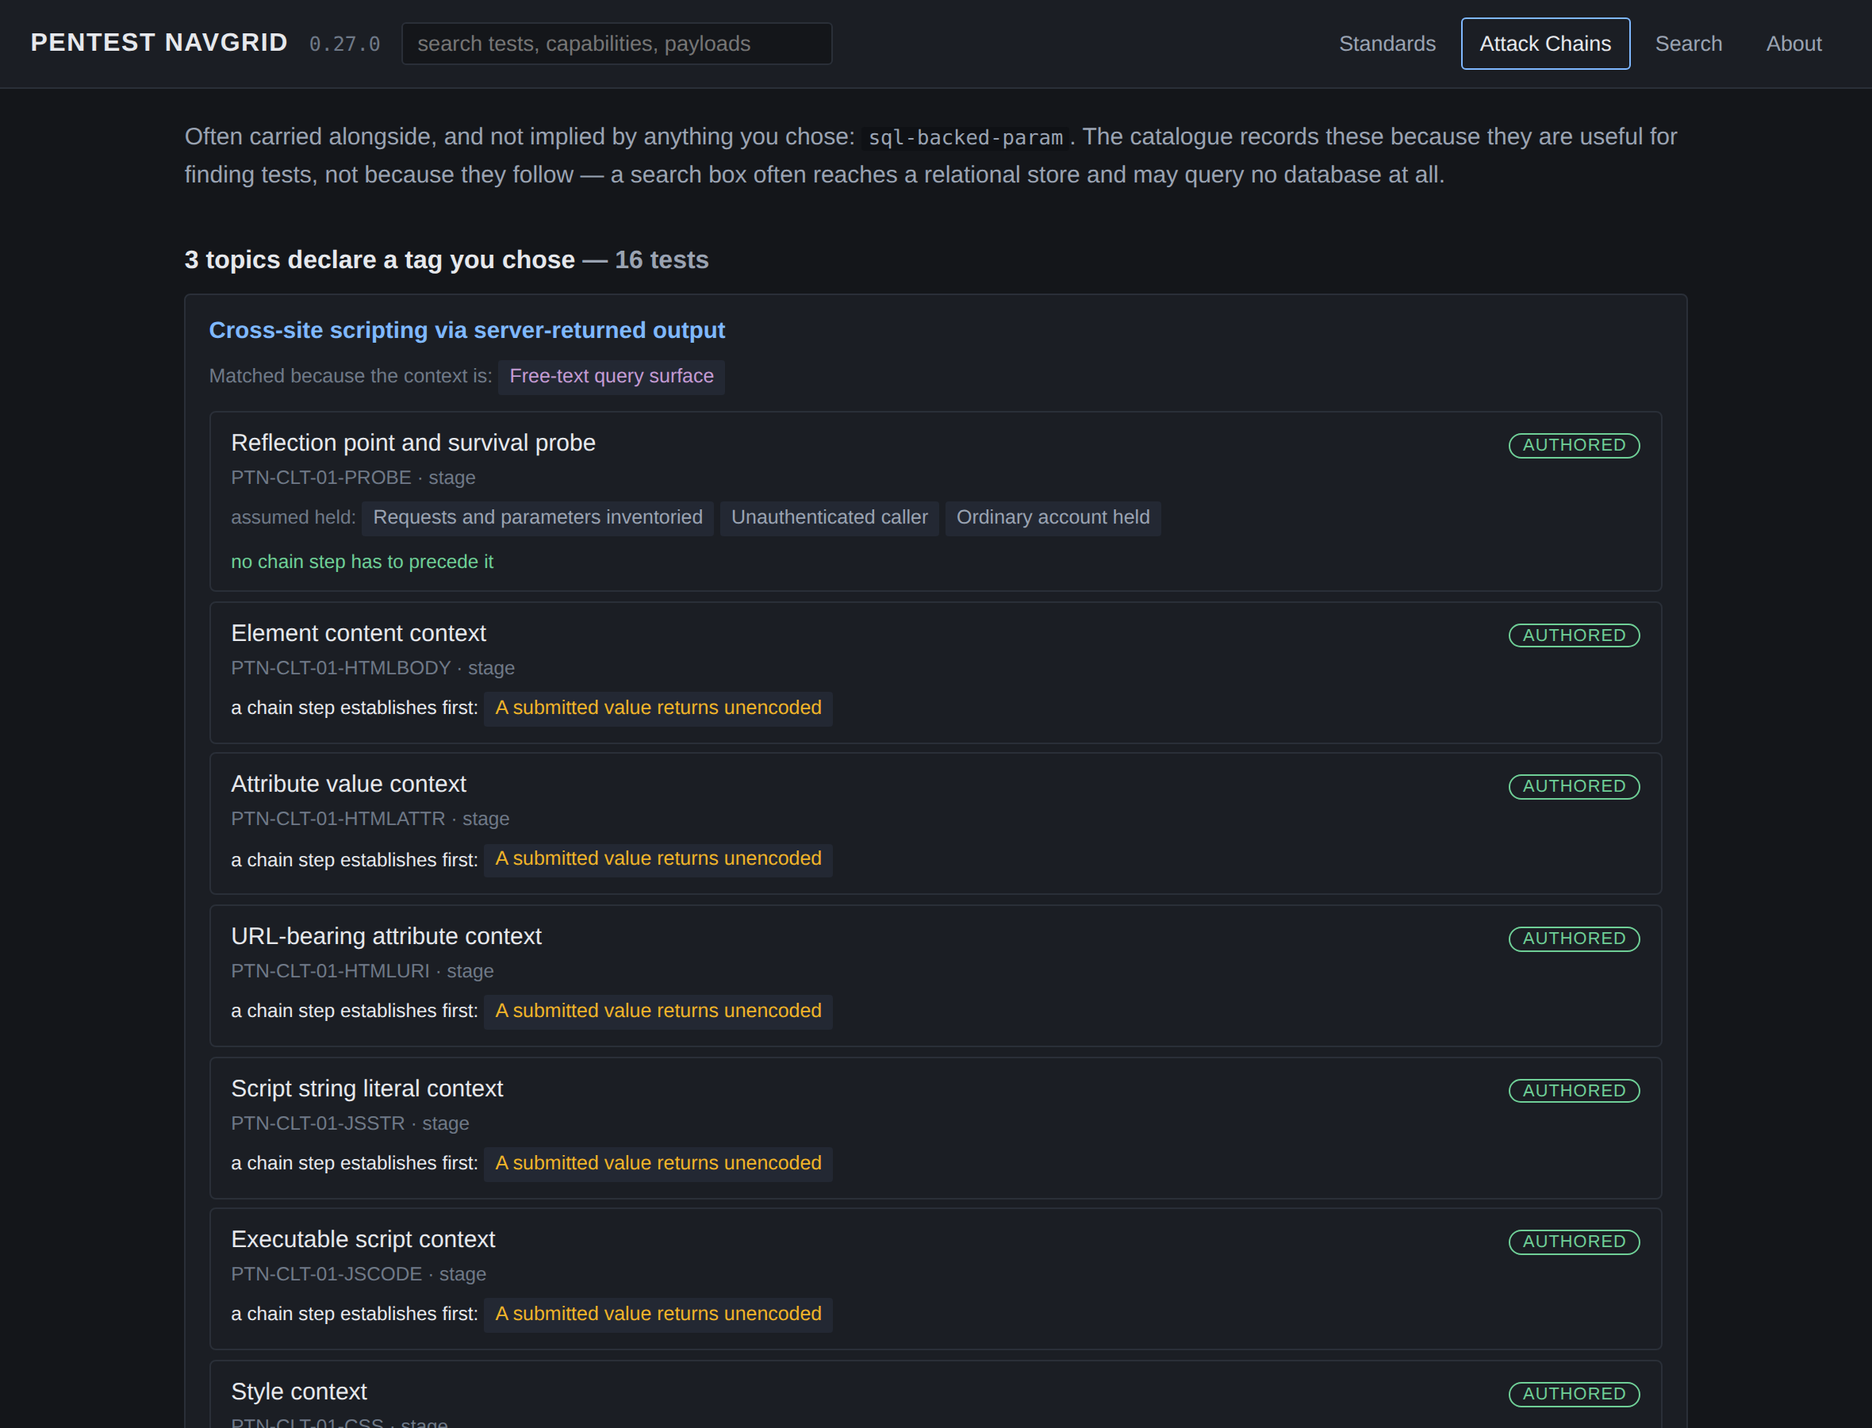
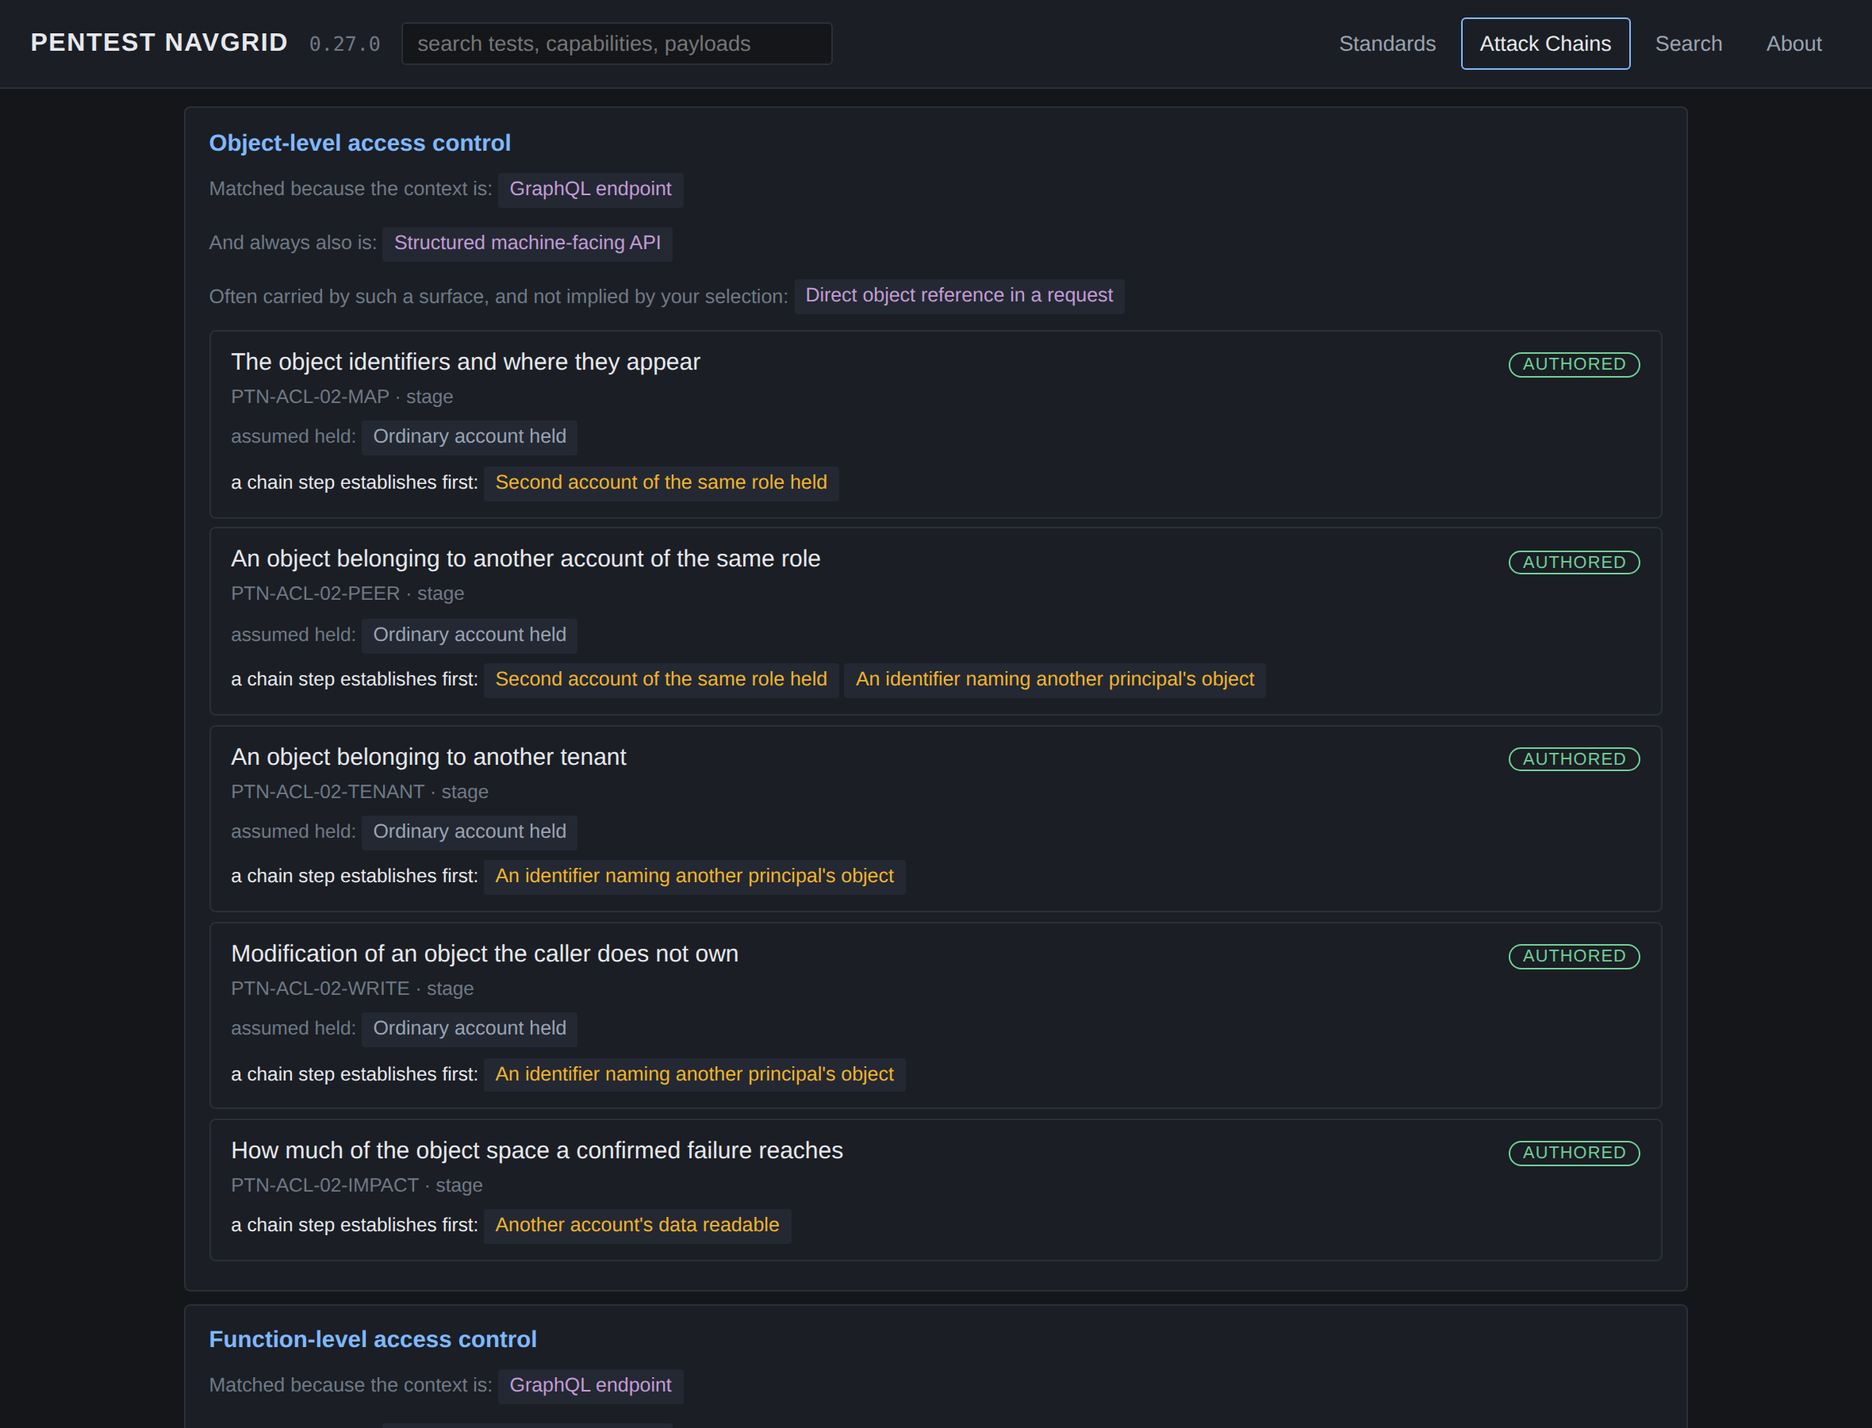
fix(surfaces): say on each card which relation put the topic there
The paragraph above the results was corrected and the reason line on each
card was not, so the page went on saying "Matched because the context is:
Parameter reaching a SQL data store" over a topic a search box had only
been associated with -- two inches under a paragraph saying the opposite.
A row in the stronger tier could carry an association too, and printed it
identically: `graphql` reaches object-level access control by the tag
chosen, by one it always also is, and by one it is merely often found
with, and all three read as the first.

Every tag that reaches a topic now carries which of the three relations
did it, and the card writes a sentence per relation, because one sentence
cannot be true of all three.

The second fix is the same mistake in the validator. An association was
compared against the directly declared parents rather than against the
whole ancestor closure, so with `a` parents `b` and `b` parents `c`, an
authored `a often c` passed validation and was then dropped by the build,
which subtracts the full closure. Accepted in the file and discarded in
the artefact is the worse of the two failures: the vocabulary would state
a relation the page does not carry.

The README figure is retaken on the page that shows all three reasons at
once rather than the one where every row happens to be a direct match --
a picture of the corrected behaviour rather than of the half of it that
never changed.

diff --git a/pentest_navgrid/artefact/app.js b/pentest_navgrid/artefact/app.js
@@ -1052,12 +1052,31 @@
     // A topic reached both ways is reported the stronger way only, with every
     // tag that reached it, so the reason line is complete and the topic appears
     // once.
-    var order = function (a, b) { return a < b ? -1 : a > b ? 1 : 0; };
-    var rows = Object.keys(certain).sort(order).map(function (tid) {
-      return { topic: tid, via: certain[tid].concat(weak[tid] || []).sort(), often: false };
+    /* Every tag that reached a topic, carrying which of the three relations
+       did it. The tier a row lands in is not enough on its own: a row in the
+       stronger tier can still be reached by an association as well as by the
+       tag the reader chose, and a card that printed both the same way would go
+       on saying "the context is" over a tag the selection never established --
+       which is the whole thing this split exists to stop, one level further
+       down the page than the paragraph that says it. */
+    var order = function (a, b) { return a.tag < b.tag ? -1 : a.tag > b.tag ? 1 : 0; };
+    var byName = function (a, b) { return a < b ? -1 : a > b ? 1 : 0; };
+    var how = function (tag) {
+      if (closure.selected.indexOf(tag) >= 0) return "chosen";
+      return closure.parents.indexOf(tag) >= 0 ? "always" : "often";
+    };
+    var tagged = function (tags) {
+      return tags.map(function (tag) { return { tag: tag, how: how(tag) }; }).sort(order);
+    };
+    var rows = Object.keys(certain).sort(byName).map(function (tid) {
+      return {
+        topic: tid,
+        via: tagged(certain[tid].concat(weak[tid] || [])),
+        often: false
+      };
     });
-    Object.keys(weak).sort(order).forEach(function (tid) {
-      if (!own(certain, tid)) rows.push({ topic: tid, via: weak[tid].sort(), often: true });
+    Object.keys(weak).sort(byName).forEach(function (tid) {
+      if (!own(certain, tid)) rows.push({ topic: tid, via: tagged(weak[tid]), often: true });
     });
     return {
       selected: closure.selected,
@@ -2134,11 +2153,26 @@
     if (!topic) return "";
     var byTag = {};
     (D.surfaces || []).forEach(function (s) { byTag[s.tag] = s; });
-    var why = row.via.map(function (tag) {
-      var s = byTag[tag];
-      return '<span class="tag ctx" title="' + esc((s && s.hint) || tag) + '">' +
-        esc((s && s.label) || tag) + "</span>";
-    }).join("");
+    /* Three sentences rather than one, because the three relations are three
+       different claims and the shortest true sentence differs for each. A
+       chosen tag and a tag the selection always also is are both true of the
+       surface the reader described; an association is true of surfaces like it
+       in general and says nothing about theirs. */
+    var chips = function (kind) {
+      return row.via.filter(function (v) { return v.how === kind; })
+        .map(function (v) {
+          var s = byTag[v.tag];
+          return '<span class="tag ctx" title="' + esc((s && s.hint) || v.tag) + '">' +
+            esc((s && s.label) || v.tag) + "</span>";
+        }).join("");
+    };
+    var line = function (kind, lead) {
+      var found = chips(kind);
+      return found ? '<div class="why">' + lead + " " + found + "</div>" : "";
+    };
+    var why = line("chosen", "Matched because the context is:") +
+      line("always", "And always also is:") +
+      line("often", "Often carried by such a surface, and not implied by your selection:");
 
     var units = (topic.units || []).map(function (uid) {
       var unit = get(D.units, uid);
@@ -2176,7 +2210,7 @@
 
     return '<div class="card"><h4><a href="' + href("topic", row.topic) + '">' +
       esc(topic.title) + "</a></h4>" +
-      '<div class="why">Matched because the context is: ' + why + "</div>" +
+      why +
       '<div class="rows">' + units + "</div></div>";
   };
 

diff --git a/tests/test_artefact_ui.py b/tests/test_artefact_ui.py
@@ -1516,7 +1516,10 @@ class ChoosingAContextSelectsTestsAndNothingElse(unittest.TestCase):
             const hit = r.topics.filter(function (t) { return t.topic === "PTN-ACL-02"; })[0];
             return hit || null;
         """)
-        self.assertEqual(out["via"], ["object-id-param", "rest-api"])
+        self.assertEqual(
+            [[v["tag"], v["how"]] for v in out["via"]],
+            [["object-id-param", "chosen"], ["rest-api", "chosen"]],
+        )
         self.assertFalse(out["often"])
 
     def test_a_topic_reached_only_through_an_association_is_marked_as_weaker(self):
@@ -1540,7 +1543,9 @@ class ChoosingAContextSelectsTestsAndNothingElse(unittest.TestCase):
         out = self.run_js("""
             const r = H.contextTopics(D, ["graphql"]);
             const rows = {};
-            r.topics.forEach(function (t) { rows[t.topic] = { often: t.often, via: t.via }; });
+            r.topics.forEach(function (t) {
+              rows[t.topic] = { often: t.often, via: t.via.map(function (v) { return v.tag; }) };
+            });
             return rows;
         """)
         reached = [t for t, row in out.items() if "rest-api" in row["via"]]
@@ -1548,6 +1553,39 @@ class ChoosingAContextSelectsTestsAndNothingElse(unittest.TestCase):
         for topic in reached:
             with self.subTest(topic=topic):
                 self.assertFalse(out[topic]["often"])
+
+    def test_every_tag_that_reached_a_topic_carries_which_relation_did_it(self):
+        """The tier a row lands in is not enough. A row in the stronger tier can
+        still be reached by an association as well as by the tag the reader
+        chose -- `graphql` reaches object-level access control through both --
+        and a card printing the two the same way would go on saying "the context
+        is" over a tag the selection never established."""
+        out = self.run_js("""
+            const r = H.contextTopics(D, ["graphql"]);
+            const hit = r.topics.filter(function (t) { return t.topic === "PTN-ACL-02"; })[0];
+            return hit.via;
+        """)
+        self.assertEqual(
+            [[v["tag"], v["how"]] for v in out],
+            [["graphql", "chosen"], ["object-id-param", "often"], ["rest-api", "always"]],
+        )
+
+    def test_no_tag_is_reported_under_a_relation_the_closure_does_not_give_it(self):
+        out = self.run_js("""
+            const bad = [];
+            D.surfaces.forEach(function (s) {
+              const closure = H.contextClosure(D, [s.tag]);
+              H.contextTopics(D, [s.tag]).topics.forEach(function (row) {
+                row.via.forEach(function (v) {
+                  const list = closure[v.how === "chosen" ? "selected"
+                    : v.how === "always" ? "parents" : "often"];
+                  if (list.indexOf(v.tag) < 0) bad.push([s.tag, v.tag, v.how]);
+                });
+              });
+            });
+            return bad;
+        """)
+        self.assertEqual(out, [])
 
     def test_the_deleted_edges_reach_nothing(self):
         """Three relations were removed rather than relabelled. A selection that
@@ -2438,6 +2476,58 @@ class TheBuiltFileWorksInABrowser(unittest.TestCase):
         self.assertShows(text, "Often carried alongside")
         self.assertShows(text, "sql-backed-param")
         self.assertShows(text, "SQL injection")
+
+    def test_a_card_never_says_the_context_is_a_tag_only_associated_with_it(self):
+        """The sentence a reader actually reads, next to each topic.
+
+        Correcting the paragraph above the results and leaving this one alone
+        left the page still asserting, one line lower, that a search box *is* a
+        parameter reaching a SQL data store. The disclaimer was two inches away
+        and said the opposite.
+        """
+        page = self.open("#/chains/context/search")
+        card = page.locator('.card:has-text("SQL injection")').first
+        text = " ".join(card.inner_text().split())
+        self.assertIn("Often carried by such a surface", text)
+        self.assertNotIn("Matched because the context is: Parameter reaching a SQL", text)
+
+    def test_a_card_separates_the_three_reasons_a_topic_can_be_here(self):
+        """`graphql` reaches object-level access control by all three at once:
+        the tag chosen, the tag it always also is, and one it is merely often
+        found with. One line for all three cannot be true of all three."""
+        page = self.open("#/chains/context/graphql")
+        card = page.locator('.card:has-text("Object-level access control")').first
+        text = " ".join(card.inner_text().split())
+        self.assertIn("Matched because the context is: GraphQL endpoint", text)
+        self.assertIn("And always also is: Structured machine-facing API", text)
+        self.assertIn(
+            "Often carried by such a surface, and not implied by your selection: "
+            "Direct object reference in a request",
+            text,
+        )
+
+    def test_no_card_anywhere_presents_an_association_as_the_context(self):
+        """Swept over every tag rather than the two that happen to show it, so a
+        relation added later cannot reintroduce the wording."""
+        bad, read = [], 0
+        for surface in self.data["surfaces"]:
+            if not surface["often"]:
+                continue
+            page = self.open("#/chains/context/" + surface["tag"])
+            labels = {
+                s["label"] for s in self.data["surfaces"] if s["tag"] in surface["often"]
+            }
+            for block in page.locator(".why").all_inner_texts():
+                line = " ".join(block.split())
+                if not line.startswith("Matched because the context is:"):
+                    continue
+                read += 1
+                for label in labels:
+                    if label in line:
+                        bad.append((surface["tag"], label))
+        self.assertEqual(bad, [])
+        # A selector that stopped matching would make this pass by reading none.
+        self.assertGreater(read, 20, "no reason lines were examined at all")
 
     def test_an_association_is_never_printed_as_something_that_follows(self):
         """The sentence this change exists to remove. It said an edge was "true

diff --git a/pentest_navgrid/validate.py b/pentest_navgrid/validate.py
@@ -184,6 +184,28 @@ def check_vocabularies(repo: Repository, problems: Problems) -> None:
     # every pass after it must still run. A validator that raises on the first
     # malformed document reports one problem out of a file that may hold six.
     dimension_of = {s["tag"]: s.get("dimension") for s in surfaces}
+    declared_parents = {s["tag"]: list(s.get("parents") or ()) for s in surfaces}
+
+    def ancestors(tag: str) -> Set[str]:
+        """Every tag the parent relation makes true of one carrying `tag`.
+
+        Walked rather than read directly, because the relation is closed
+        transitively at build time and the closure is what the page sees. A
+        check against the directly declared parents only would accept `a`
+        associating with `c` where `a` parents `b` and `b` parents `c` -- and
+        the build would then drop the authored association, because `c` is
+        already certain. Accepted here and discarded there is the worst of the
+        two: the file would say something the artefact does not.
+        """
+        seen: Set[str] = set()
+        stack = list(declared_parents.get(tag, ()))
+        while stack:
+            current = stack.pop()
+            if current in seen or current == tag:
+                continue
+            seen.add(current)
+            stack.extend(declared_parents.get(current, ()))
+        return seen
     for surface in surfaces:
         tag = surface["tag"]
         # A parent states something true of every surface carrying the child, so
@@ -219,11 +241,13 @@ def check_vocabularies(repo: Repository, problems: Problems) -> None:
                 continue
             if related == tag:
                 problems.add("vocab/surfaces.yaml", f"{tag} names itself in often")
-            elif related in (surface.get("parents") or []):
+            elif related in ancestors(tag):
                 problems.add(
                     "vocab/surfaces.yaml",
-                    f"{tag} names {related} as both a parent and an association -- "
-                    f"one of the two is wrong, and a reader has no way to tell which",
+                    f"{tag} names {related} as an association, and the parent "
+                    f"relation already makes it true of every surface carrying "
+                    f"{tag} -- one of the two is wrong, and a reader has no way "
+                    f"to tell which",
                 )
 
     _check_surface_parents(surfaces, problems)

diff --git a/tests/test_vocabularies_and_standards.py b/tests/test_vocabularies_and_standards.py
@@ -241,7 +241,28 @@ class AParentClaimsMoreThanAnAssociation(SandboxCase):
                 if surface["tag"] == "graphql":
                     surface["often"] = ["rest-api"]
         self.box.edit("vocab/surfaces.yaml", both)
-        self.assertRejected("as both a parent and an association")
+        self.assertRejected(
+            "graphql names rest-api as an association, and the parent relation "
+            "already makes it true"
+        )
+
+    def test_an_association_with_a_tag_a_parent_already_makes_certain_is_rejected(self):
+        """Checked against the whole ancestor closure rather than the directly
+        declared parents. With `a` parents `b` and `b` parents `c`, an authored
+        `a often c` used to pass here and then be dropped by the build, because
+        the closure had already made `c` certain -- accepted in the file and
+        discarded in the artefact, which is the worst of the two outcomes: the
+        vocabulary says something the page does not."""
+        def indirect(data):
+            by_tag = {s["tag"]: s for s in data["surfaces"]}
+            # websocket is a channel, so the parent rule itself is satisfied and
+            # only the association contradiction is left to catch.
+            by_tag["rest-api"]["parents"] = ["websocket"]
+            by_tag["graphql"]["often"] = ["websocket"]
+        self.box.edit("vocab/surfaces.yaml", indirect)
+        self.assertRejected(
+            "already makes it true of every surface carrying graphql"
+        )
 
     def test_the_edges_the_record_says_are_gone_are_gone(self):
         """Three were deleted rather than relabelled, because relabelling would

diff --git a/README.md b/README.md
@@ -131,10 +131,10 @@ The Attack Chains view, entered from what is in front of you. A tester
 mid-engagement is not holding a WSTG identifier or a capability name; they are
 looking at an upload, a sort parameter, a token. Choosing the kind of surface
 lists the tests the catalogue files under it, says which tag put each topic
-there, and separates the tests nothing has to precede from the ones waiting on
-a capability another test establishes:
+there **and on what grounds**, and separates the tests nothing has to precede
+from the ones waiting on a capability another test establishes:
 
-![Tests selected by the kind of surface, each topic showing the tag that matched and each test what it still requires](docs/assets/test-paths.png)
+![A topic reached three ways at once: by the tag chosen, by one the choice always also is, and by one such a surface is often found with — each stated separately, with every test showing what it still requires](docs/assets/test-paths.png)
 
 The selection is a URL and nothing else. Nothing is stored, and a tag names a
 *kind* of surface rather than one you are looking at — the file still holds no

diff --git a/docs/DISCOVERY.md b/docs/DISCOVERY.md
@@ -113,6 +113,15 @@ because relabelling them would not have made them coherent:
   input is stored and later rendered in another user's context. Its results may
   display stored content; the tag is about the storing surface.
 
+Both are reported per topic as well as per selection, and that is where the
+first attempt at this got it wrong. Correcting the paragraph above the results
+and leaving the reason line on each card alone left the page still saying
+*"Matched because the context is: Parameter reaching a SQL data store"* over a
+topic a search box had only been associated with -- the disclaimer two inches
+above it, saying the opposite. Every tag that reaches a topic now carries which
+of the three relations did it, and the card writes a separate sentence for each,
+because one sentence cannot be true of all three.
+
 `often` is not closed transitively, and the reason is worth stating: a search
 box is often backed by SQL, a SQL parameter is often an object identifier, and
 chaining those arrives at a claim nobody wrote. It **is** inherited down
